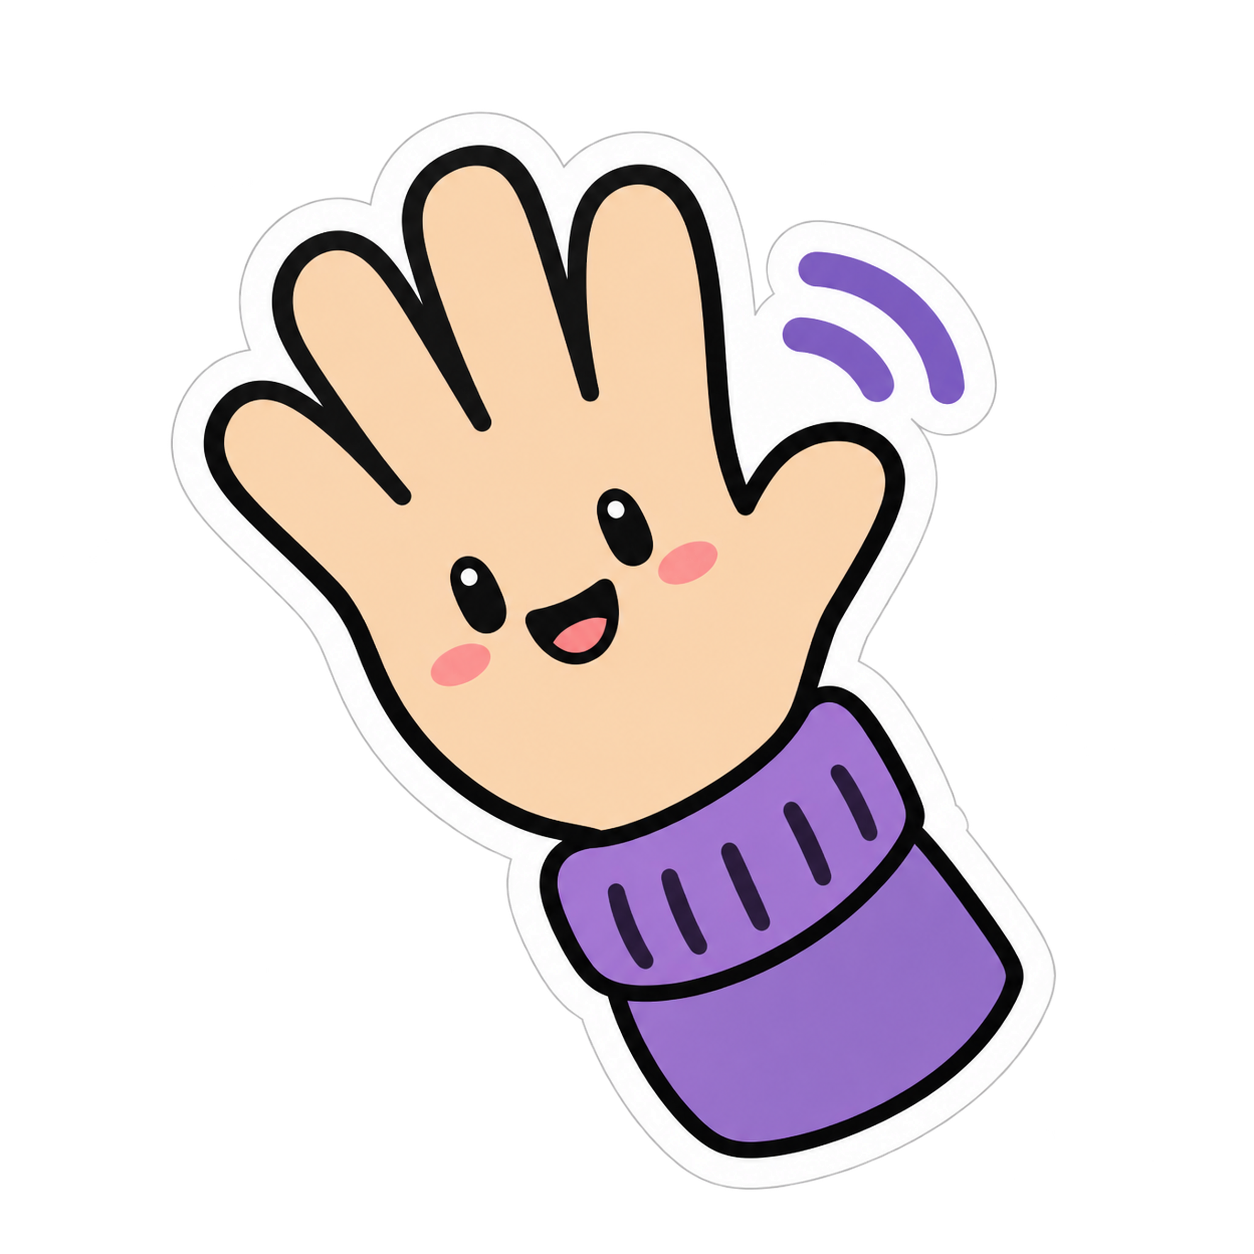
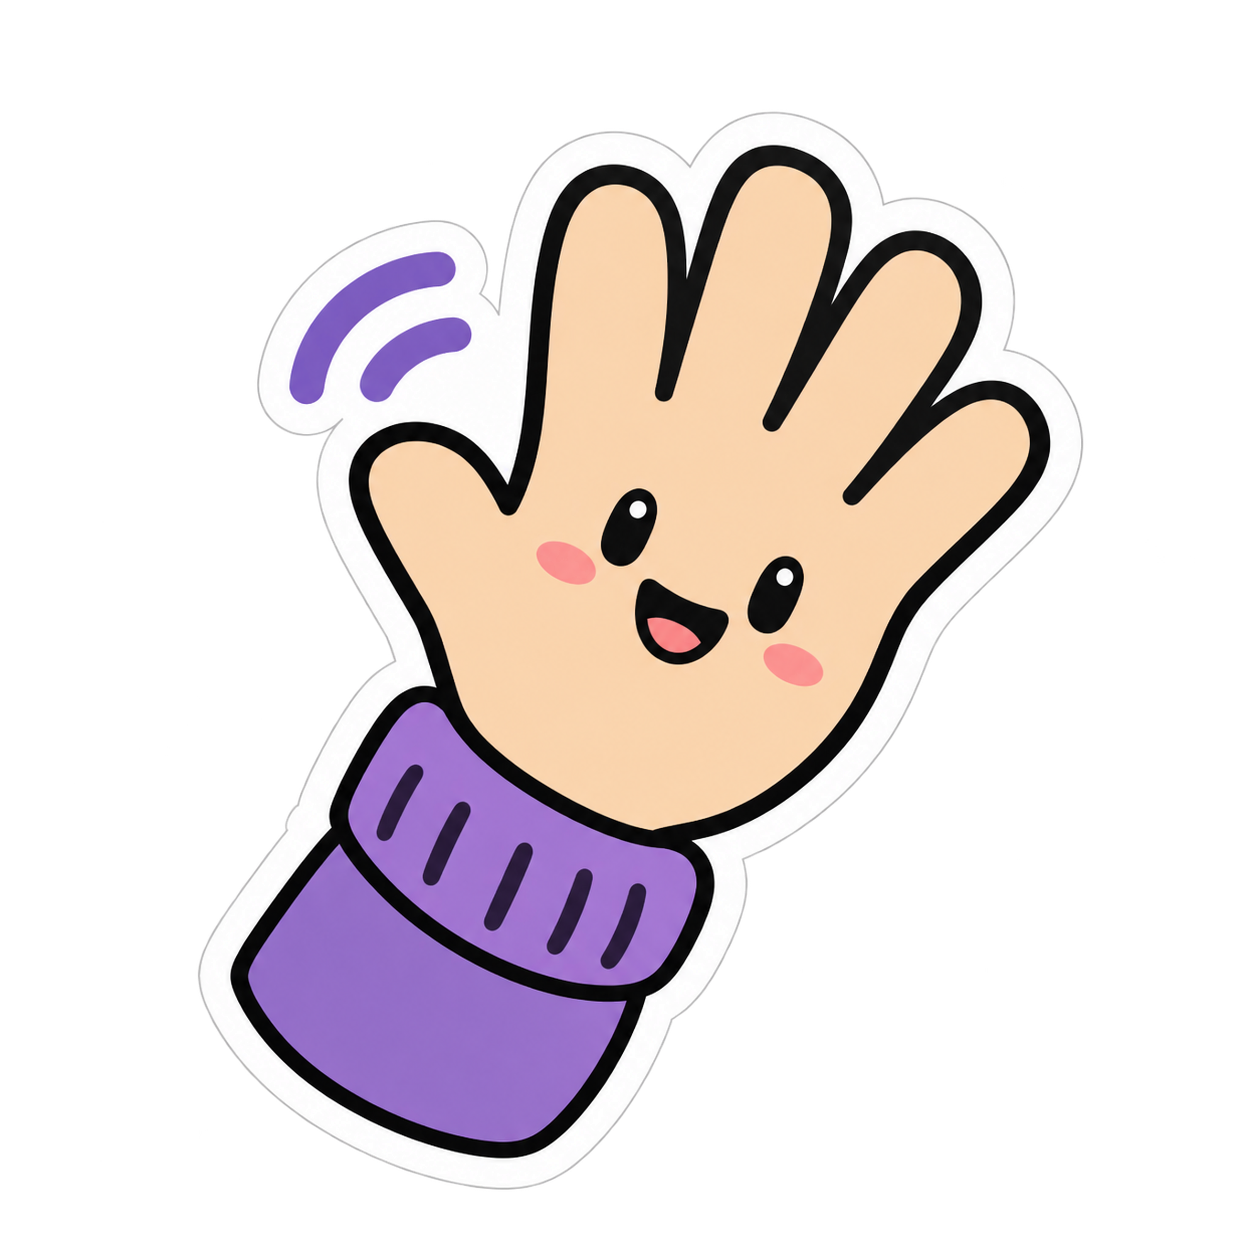
fix: polish sticker orientations and ensure visibility on all screen sizes

diff --git a/index.html b/index.html
@@ -769,12 +769,14 @@
         <section id="profil" class="relative z-20 pt-2 pb-10 max-w-4xl">
             <!-- Overlapping Avatar -->
             <div class="flex flex-col sm:flex-row items-start sm:items-end gap-4 sm:gap-5 -mt-14 sm:-mt-16 md:-mt-20 mb-5">
-                <div class="relative">
+                <div class="relative inline-block flex-shrink-0">
                     <div class="avatar-box w-24 h-24 sm:w-28 sm:h-28 md:w-36 md:h-36 flex-shrink-0 border-4 border-white" title="Foto Profil Miftahul Amri">
                         <img src="./profile.png" alt="Foto Profil Miftahul Amri" class="w-full h-full object-cover">
                     </div>
-                    <!-- Waving Hand Sticker -->
-                    <img src="./stickers/hand.png" alt="Halo!" class="absolute -right-3 -bottom-2 w-10 h-10 sm:w-12 sm:h-12 md:w-14 md:h-14 sticker-wobble drop-shadow-md z-10 pointer-events-none select-none">
+                    <!-- Waving Hand Sticker (Tucked onto avatar border, waving outward) -->
+                    <div class="absolute bottom-0 -right-2 sm:bottom-1 sm:-right-3 md:bottom-2 md:-right-3 w-10 h-10 sm:w-12 sm:h-12 md:w-14 md:h-14 sticker-wobble pointer-events-none select-none z-20">
+                        <img src="./stickers/hand.png" alt="Halo!" class="w-full h-full object-contain filter drop-shadow-md">
+                    </div>
                 </div>
 
                 <!-- Status badge (Active Freelance) -->
@@ -939,16 +941,18 @@
              PROYEK PILIHAN SECTION
              ============================================== -->
         <section id="proyek" class="pt-12 pb-16">
-            <div class="pb-5 border-b border-line mb-6 flex items-center justify-between gap-4">
+            <div class="pb-5 border-b border-line mb-6 flex items-start sm:items-center justify-between gap-3">
                 <div>
                     <div class="flex items-center gap-2 mb-2">
                         <span class="w-2.5 h-2.5 rounded-full bg-v animate-pulse"></span>
                         <span class="text-xs font-bold text-v uppercase tracking-widest">Portofolio Produk Digital</span>
                     </div>
                     <h2 class="text-2xl sm:text-3xl font-extrabold text-ink tracking-tight">Proyek Pilihan</h2>
-                    <p class="text-sm text-mut mt-2">Aplikasi web, platform sekolah &amp; organisasi, dan produk berbasis integrasi AI.</p>
+                    <p class="text-xs sm:text-sm text-mut mt-1.5 max-w-lg">Aplikasi web, platform sekolah &amp; organisasi, dan produk berbasis integrasi AI.</p>
                 </div>
-                <img src="./stickers/browser.png" alt="Code Project" class="hidden sm:block w-16 md:w-20 h-auto sticker-float flex-shrink-0 drop-shadow-md">
+                <div class="flex-shrink-0 sticker-float -mt-1 sm:mt-0">
+                    <img src="./stickers/browser.png" alt="Code Project" class="w-14 sm:w-18 md:w-22 h-auto drop-shadow-md pointer-events-none select-none">
+                </div>
             </div>
 
             <!-- List + Stage Container (Referebsibaru Style) -->
@@ -1240,8 +1244,8 @@
              ============================================== -->
         <section id="kontak" class="pt-8 pb-12">
             <div class="cta-card relative">
-                <!-- Flying Paper Airplane Sticker -->
-                <img src="./stickers/plane.png" alt="Kirim Pesan" class="absolute top-5 right-6 w-24 sm:w-28 md:w-36 h-auto sticker-wobble opacity-95 drop-shadow-xl pointer-events-none select-none hidden sm:block">
+                <!-- Flying Paper Airplane Sticker (Visible on mobile & desktop) -->
+                <img src="./stickers/plane.png" alt="Kirim Pesan" class="absolute top-4 right-4 sm:top-5 sm:right-6 w-16 sm:w-24 md:w-32 h-auto sticker-wobble opacity-95 drop-shadow-xl pointer-events-none select-none z-20 block">
 
                 <div class="max-w-2xl relative z-10">
                     <span class="text-xs font-bold text-lilac uppercase tracking-wider block mb-2">Konsultasi &amp; Kolaborasi</span>
